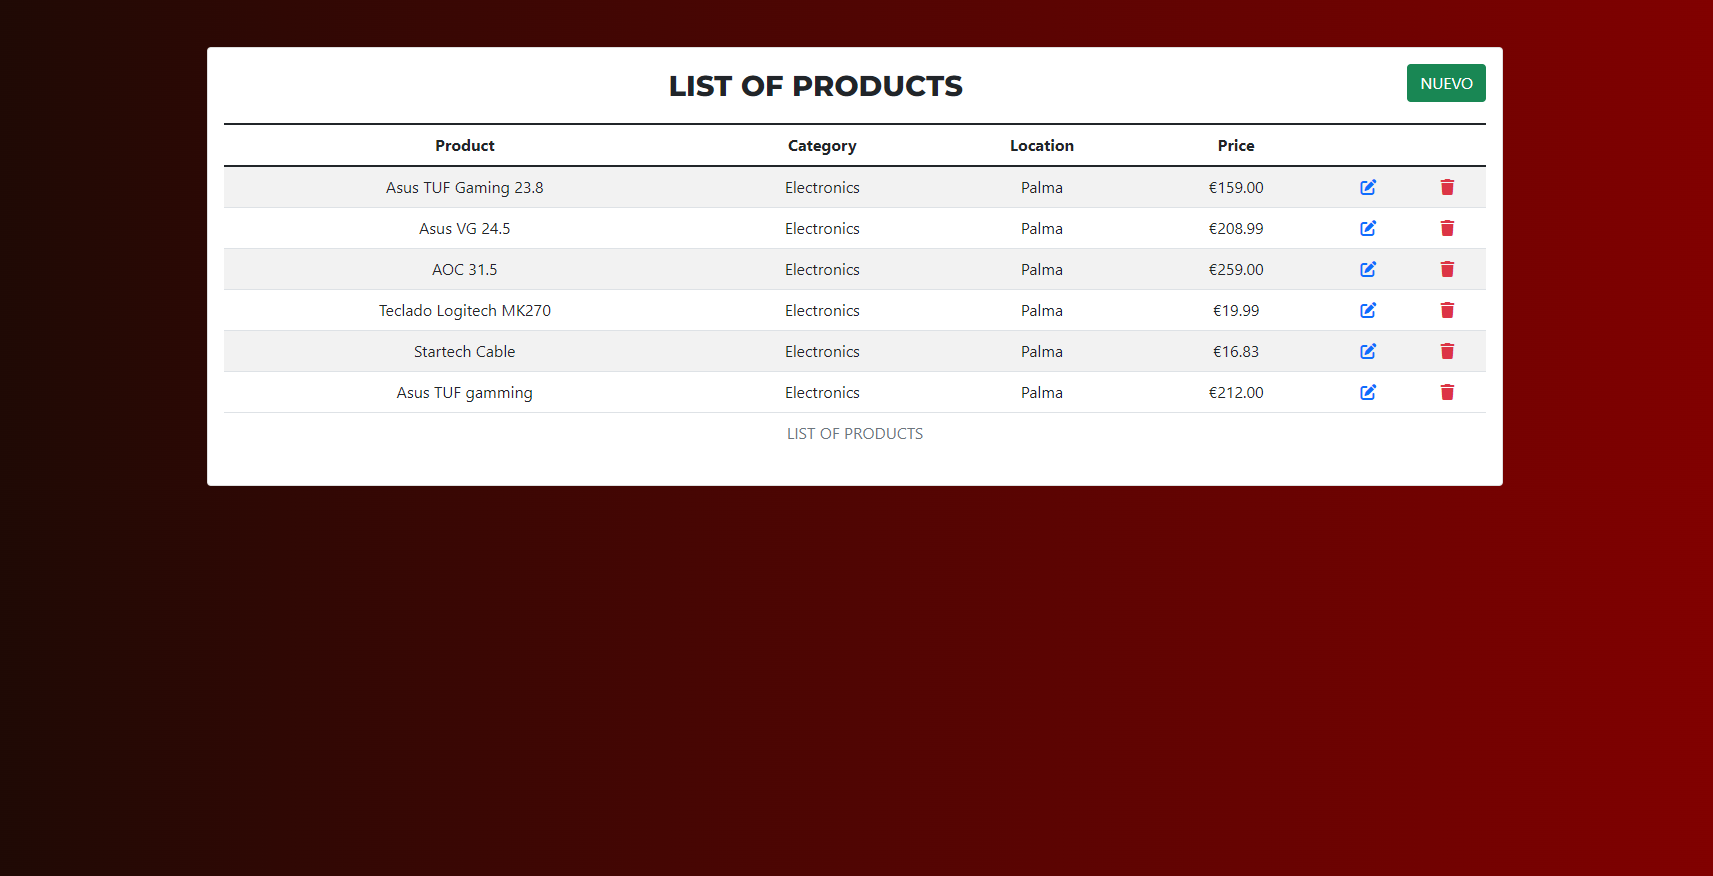
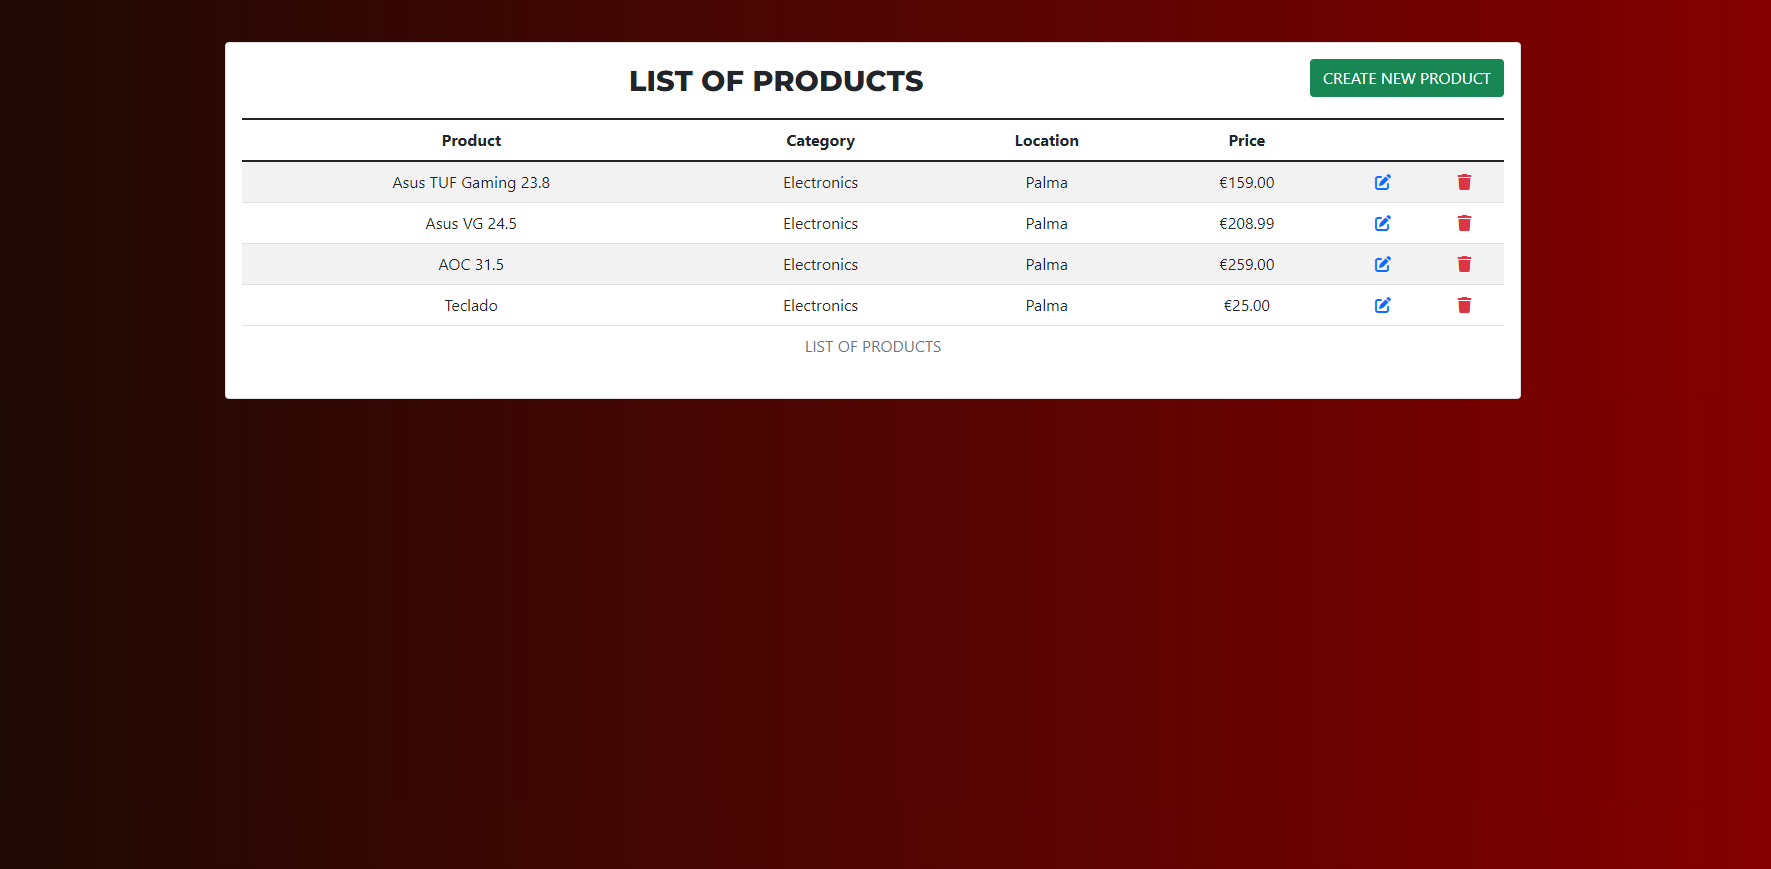
<modificted> images

Changed region(s): [[0.1238, 0.0311, 0.8973, 0.5593], [0.6807, 0.2486, 0.7426, 0.3107], [0.5569, 0.2486, 0.6188, 0.3107]]

diff --git a/frontend/src/app/components/list-products/list-products.component.html b/frontend/src/app/components/list-products/list-products.component.html
@@ -4,7 +4,7 @@
       <div class="card">
         <div class="card-body text-center">
           <span class="title">LIST OF PRODUCTS</span>
-          <button class="btn btn-success float-end" routerLink="/create-product">NUEVO</button>
+          <button class="btn btn-success float-end" routerLink="/create-product">CREATE NEW PRODUCT</button>
           <table *ngIf="listProducts.length > 0" class="table table-striped mt-3">
             <caption class= " text-center">LIST OF PRODUCTS</caption>
             <thead>
